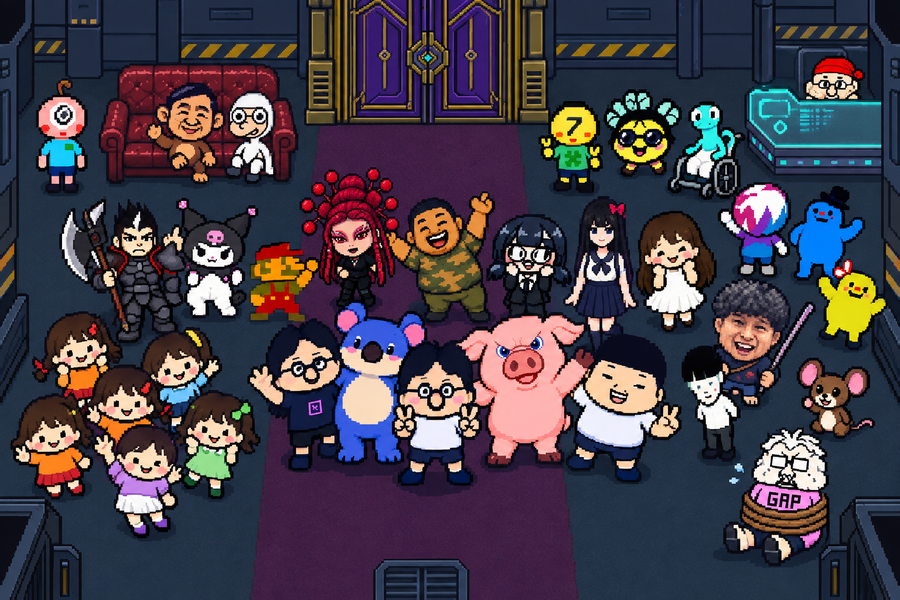
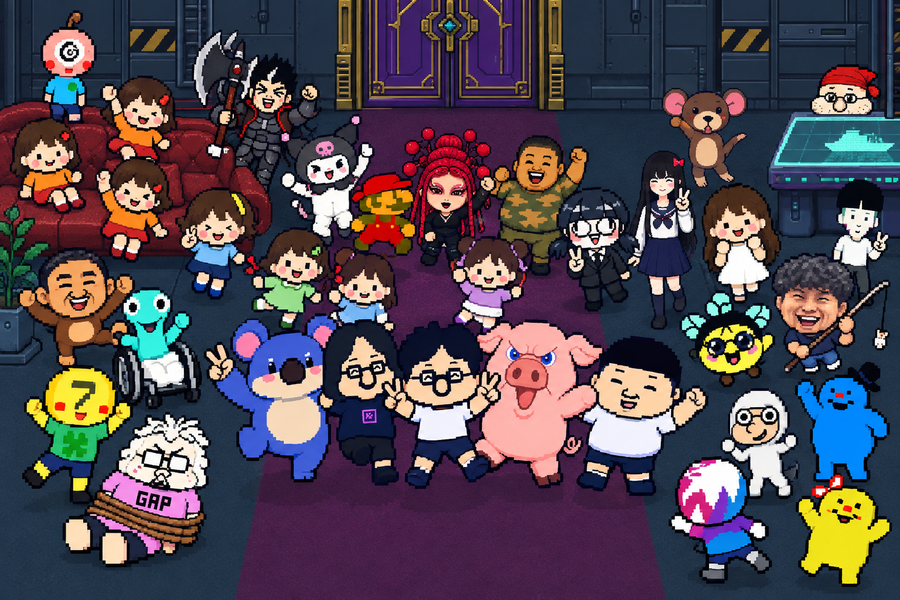
fix(ending): use the user's pick px03 for the cookie group photo; build 381
Story: design brief 2026-09-26 (group photo pick)

diff --git a/src/data/build.js b/src/data/build.js
@@ -1,1 +1,1 @@
-export const BUILD = '2026-09-26.380';
+export const BUILD = '2026-09-26.381';

diff --git a/docs/STATE.md b/docs/STATE.md
@@ -2,7 +2,7 @@
 
 마지막 갱신: 2026-09-24
 
-**BUILD380 — 쿠키 단체 사진 인게임 도트체(사용자 2026-09-26 “코 유지·그림체 인게임”)**: `assets/credits/group_photo.png` = `assets/source/cookie373/candidates/px02.png`(gpt-image-2.5-sunburst high, 스프라이트 NEAREST 참조·라운지 스크린샷) — 가재맨 없음, 주인공 일행 가운데(요플래 정가운데 브이·둥근 코·입 없음), 주요 인물 둘레, 가순이 6명 왼쪽 가장자리, 조연 오른쪽·소파, 영클 왼쪽 위 구석, 최미스 묶여 오른쪽 아래 구석(GAP), 청소부 콘솔 뒤 빼꼼. 후보 px01~06, 이전본 cookie373/v5/.
+**BUILD380 — 쿠키 단체 사진 인게임 도트체(사용자 2026-09-26 “코 유지·그림체 인게임”)**: `assets/credits/group_photo.png` = `assets/source/cookie373/candidates/px03.png`(BUILD381 사용자 선택, 처음엔 px02)(gpt-image-2.5-sunburst high, 스프라이트 NEAREST 참조·라운지 스크린샷) — 가재맨 없음, 주인공 일행 가운데(요플래 정가운데 브이·둥근 코·입 없음), 주요 인물 둘레, 가순이 6명 왼쪽 가장자리, 조연 오른쪽·소파, 영클 왼쪽 위 구석, 최미스 묶여 오른쪽 아래 구석(GAP), 청소부 콘솔 뒤 빼꼼. 후보 px01~06, 이전본 cookie373/v5/.
 
 **BUILD379 — 크레딧 사진 고퀄 재생성(사용자 2026-09-26)**: 10장(01·02·03·04·05·07·08·09·10·11) 장면마다 후보 둘(`assets/source/credits371/candidates/photoNN-a|b.png`, gpt-image-2.5-sunburst high, 스프라이트 디테일·실제 맵 배경)에서 골라 반영(01b·02a·03a·04a·05a·07a·08b·09b·10b·11b), 이전본 `credits371/v3/`. 쿠키 단체 사진은 “주인공 가운데·조연 가장자리·가재맨 없음”으로 다시 그리는 중.
 
